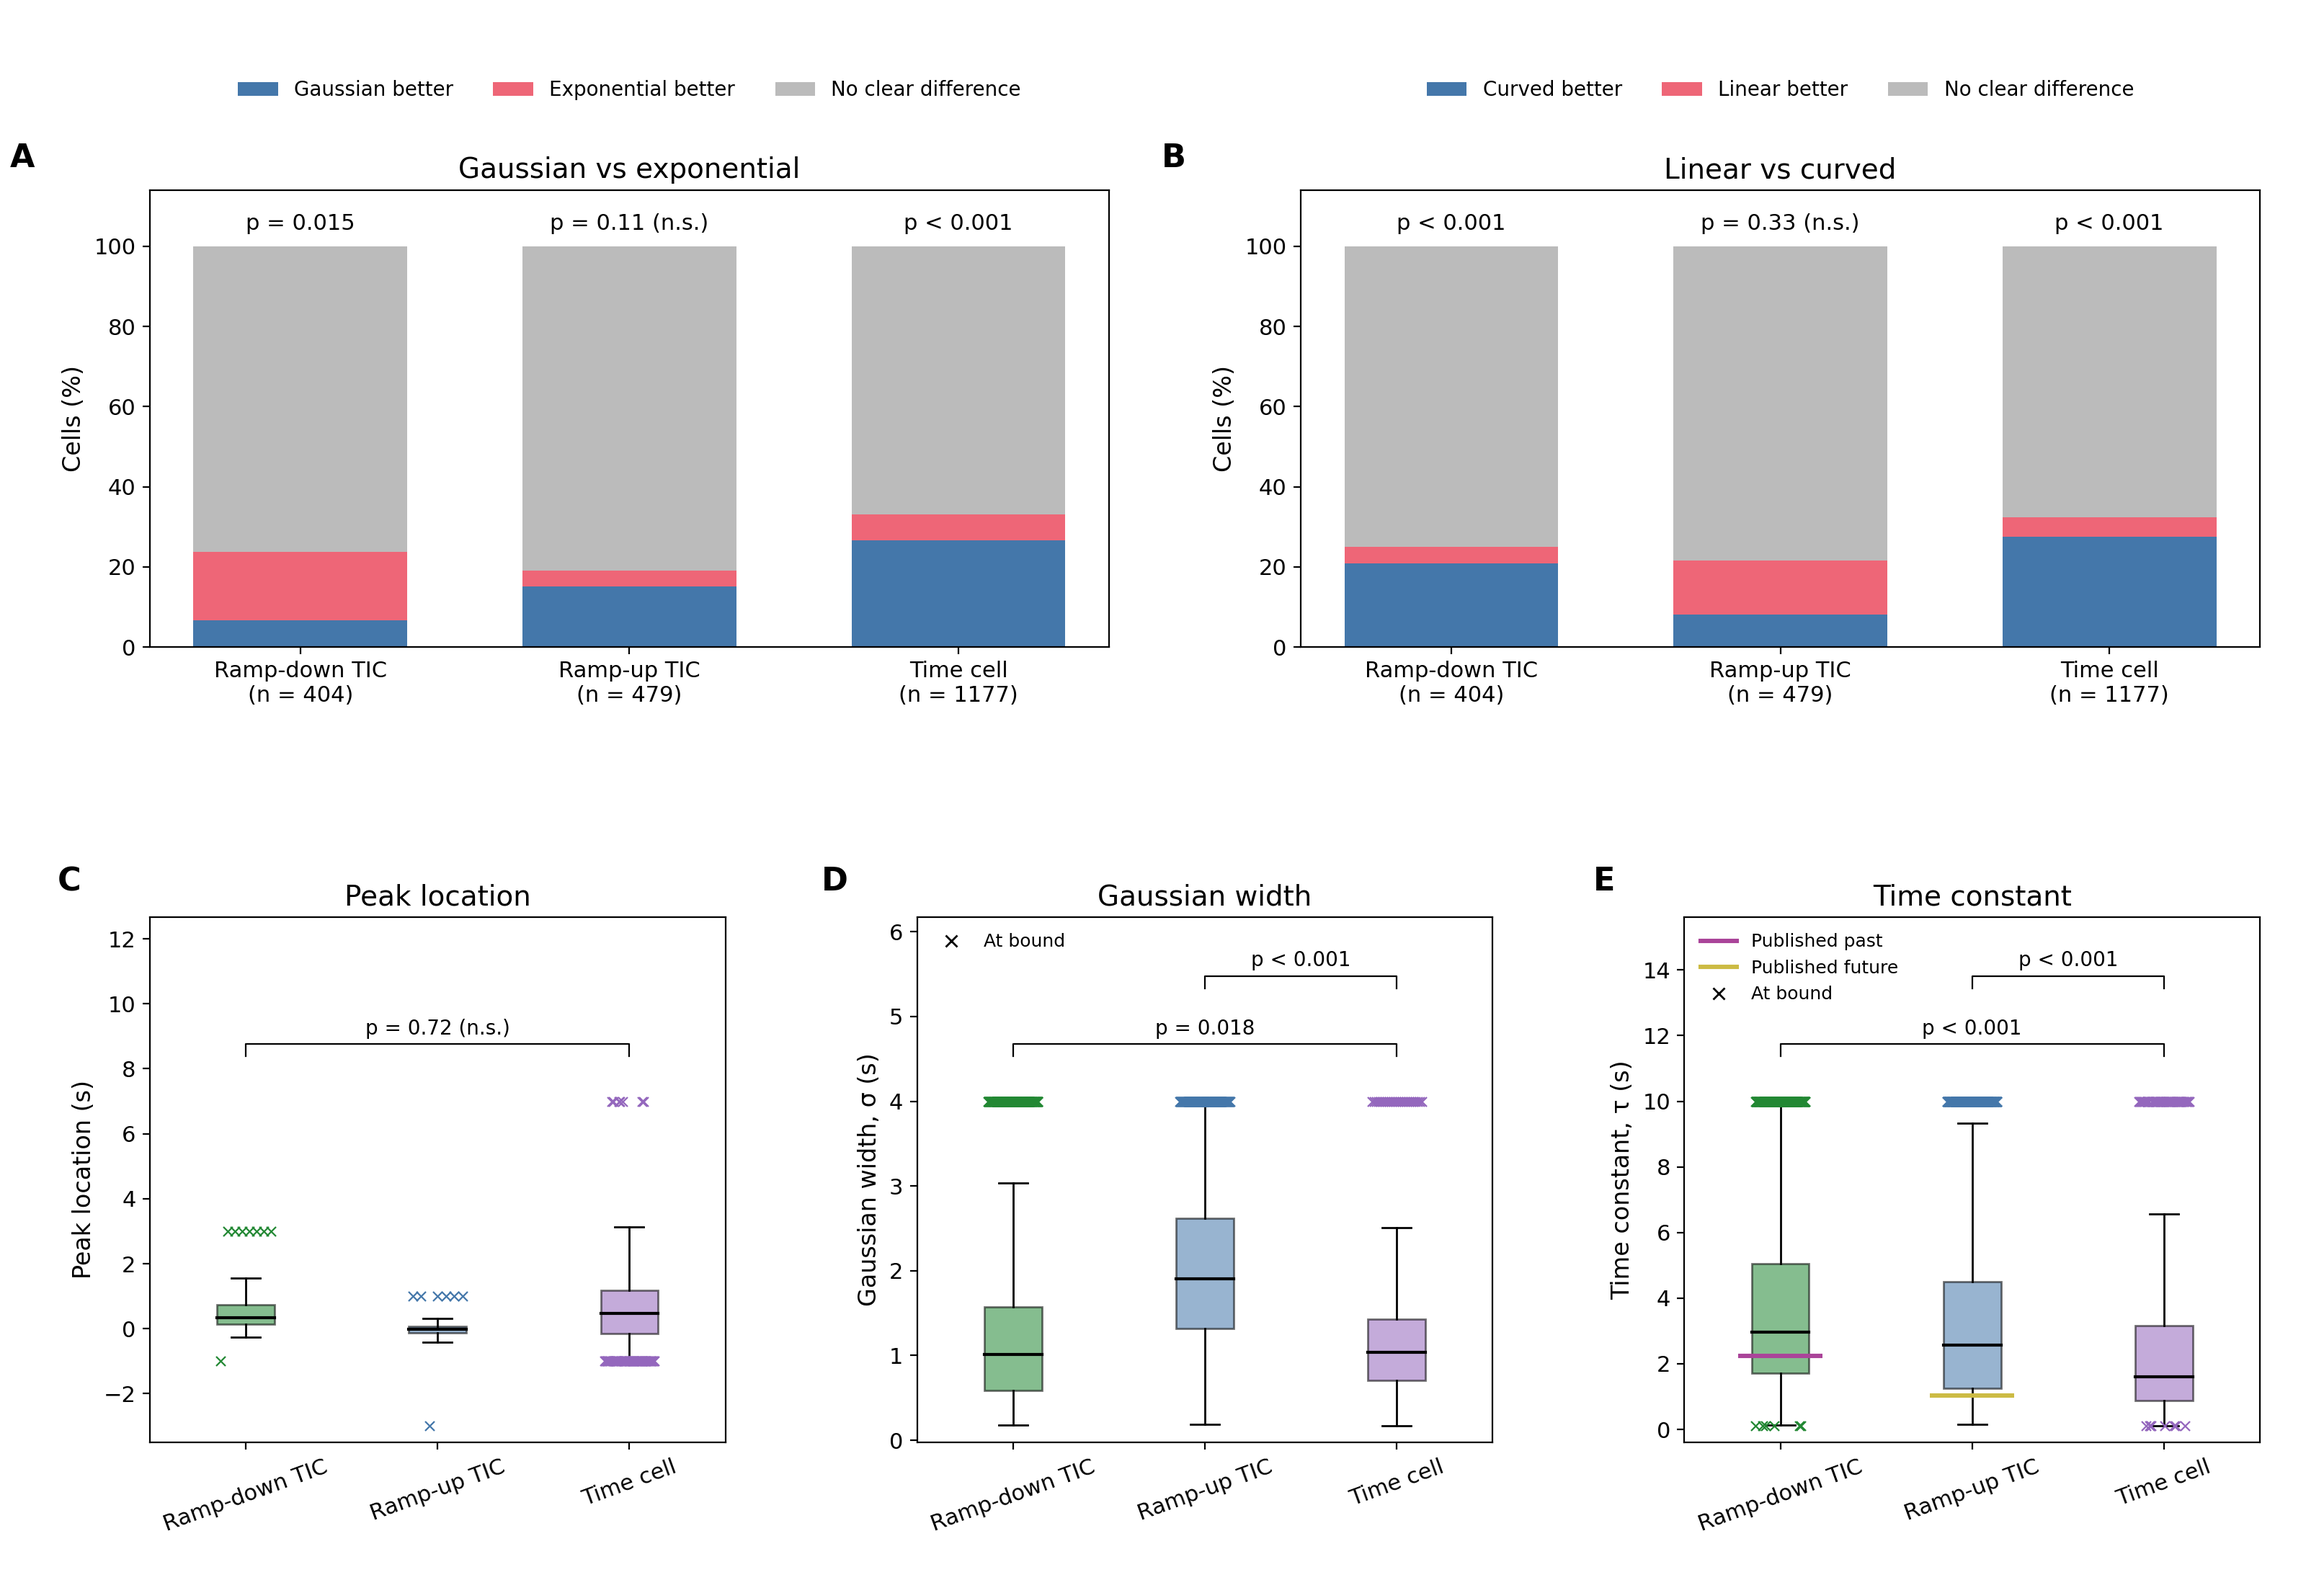
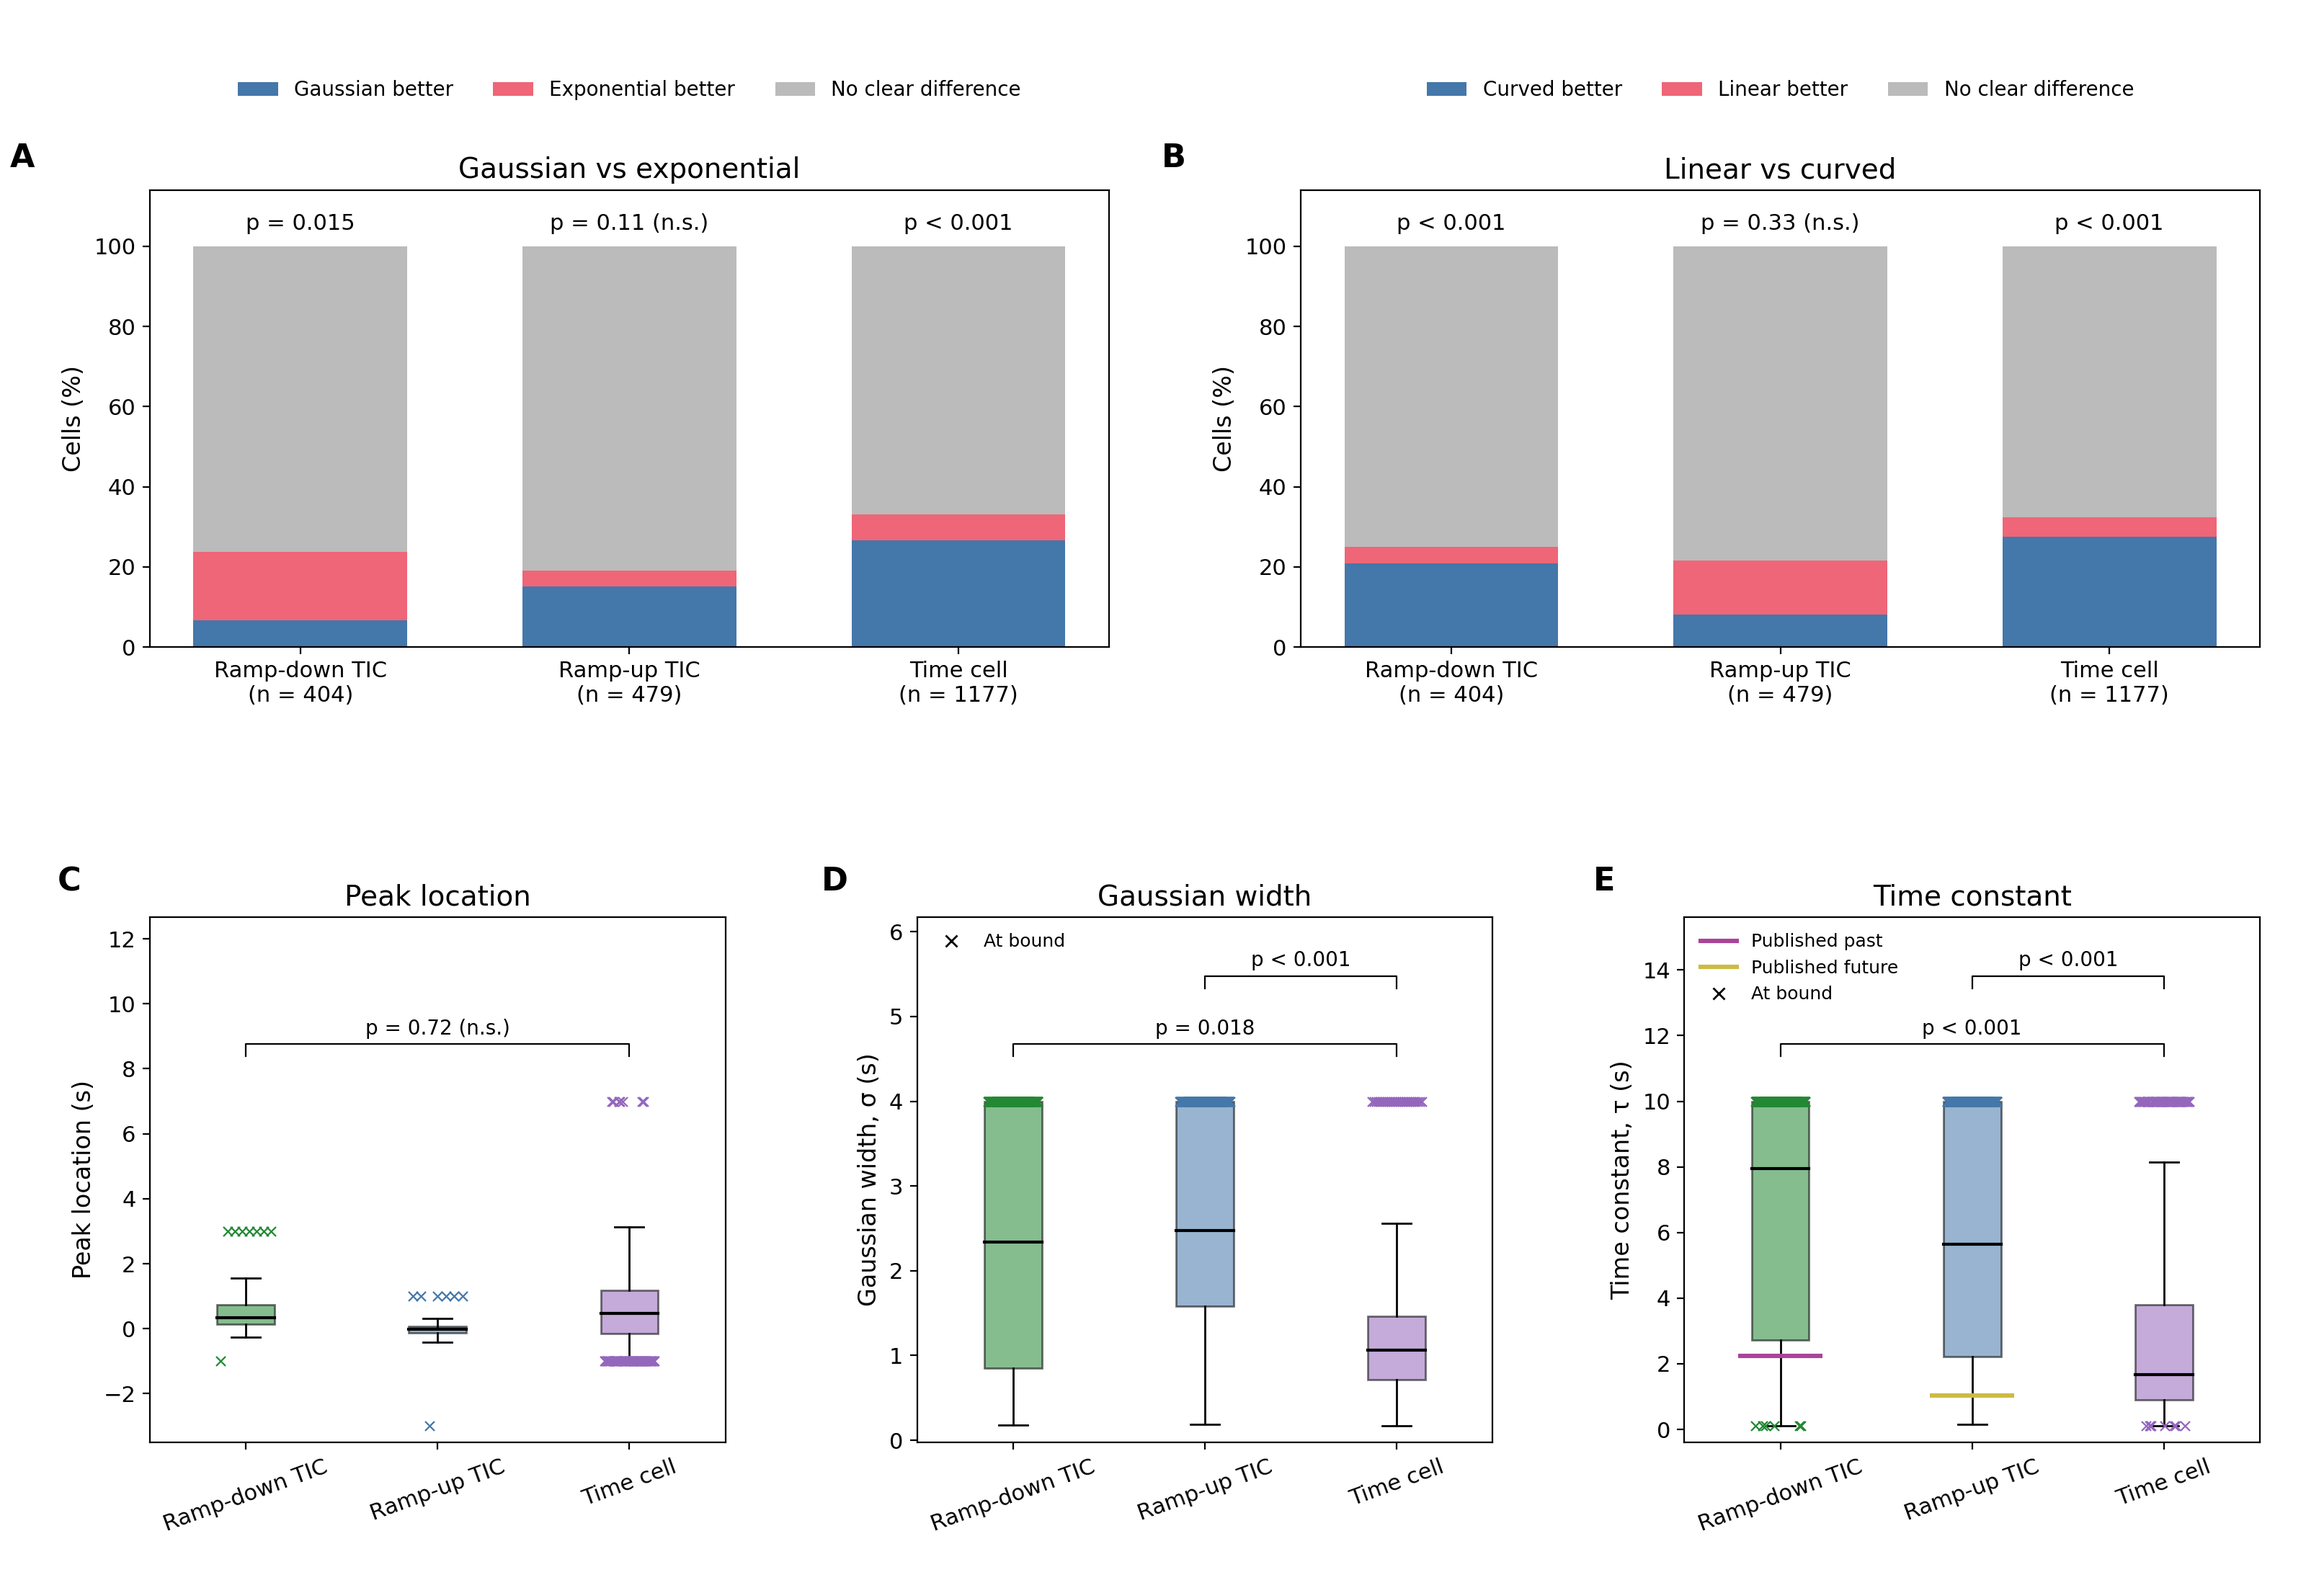
align plotted medians and sigma ticks

diff --git a/analysis/wider_parameter_summary.py b/analysis/wider_parameter_summary.py
@@ -202,10 +202,13 @@ def make_figure(parameters, table):
         axis.spines['top'].set_visible(False)
         axis.spines['right'].set_visible(False)
         if final_label is not None:
-            tick_positions = plot_bins[:-1] + np.diff(plot_bins) / 2.
-            tick_labels = [f'{value:g}' for value in tick_positions]
-            tick_labels[-1] = final_label
-            axis.set_xticks(tick_positions, tick_labels)
+            if measure == 'Gaussian σ':
+                axis.set_xticks([0., 1., 2., 3., 4.5], ['0', '1', '2', '3', '≥4'])
+            else:
+                tick_positions = plot_bins[:-1] + np.diff(plot_bins) / 2.
+                tick_labels = [f'{value:g}' for value in tick_positions]
+                tick_labels[-1] = final_label
+                axis.set_xticks(tick_positions, tick_labels)
     axes[0].legend(frameon=False, fontsize=8, bbox_to_anchor=(1.02, 1.), loc='upper left')
     for label, axis in zip('ABC', axes):
         axis.text(-.10, 1.06, label, transform=axis.transAxes,

diff --git a/analysis/summary_figure.py b/analysis/summary_figure.py
@@ -277,7 +277,7 @@ def make_figure(table, fits, suffix='', wider=False):
     for ax, panel, measure, title, ylabel in zip(axes[2:], ['C', 'D', 'E'],
             ['peak', 'width', 'ramp rate'], ['Peak location', 'Gaussian width', 'Time constant'],
             ['Peak location (s)', 'Gaussian width, \u03c3 (s)', 'Time constant, \u03c4 (s)']):
-        values = [parameter_values(fits, group, measure, include_bound=wider and measure == 'peak')[0][parameter_values(fits, group, measure)[1]].to_numpy()
+        values = [parameter_values(fits, group, measure, include_bound=wider)[0][parameter_values(fits, group, measure)[1]].to_numpy()
                   for group in GROUPS]
         boxes = ax.boxplot(values, labels=LABELS, showfliers=False, patch_artist=True,
                            medianprops={'color': 'black', 'linewidth': 1.5})
